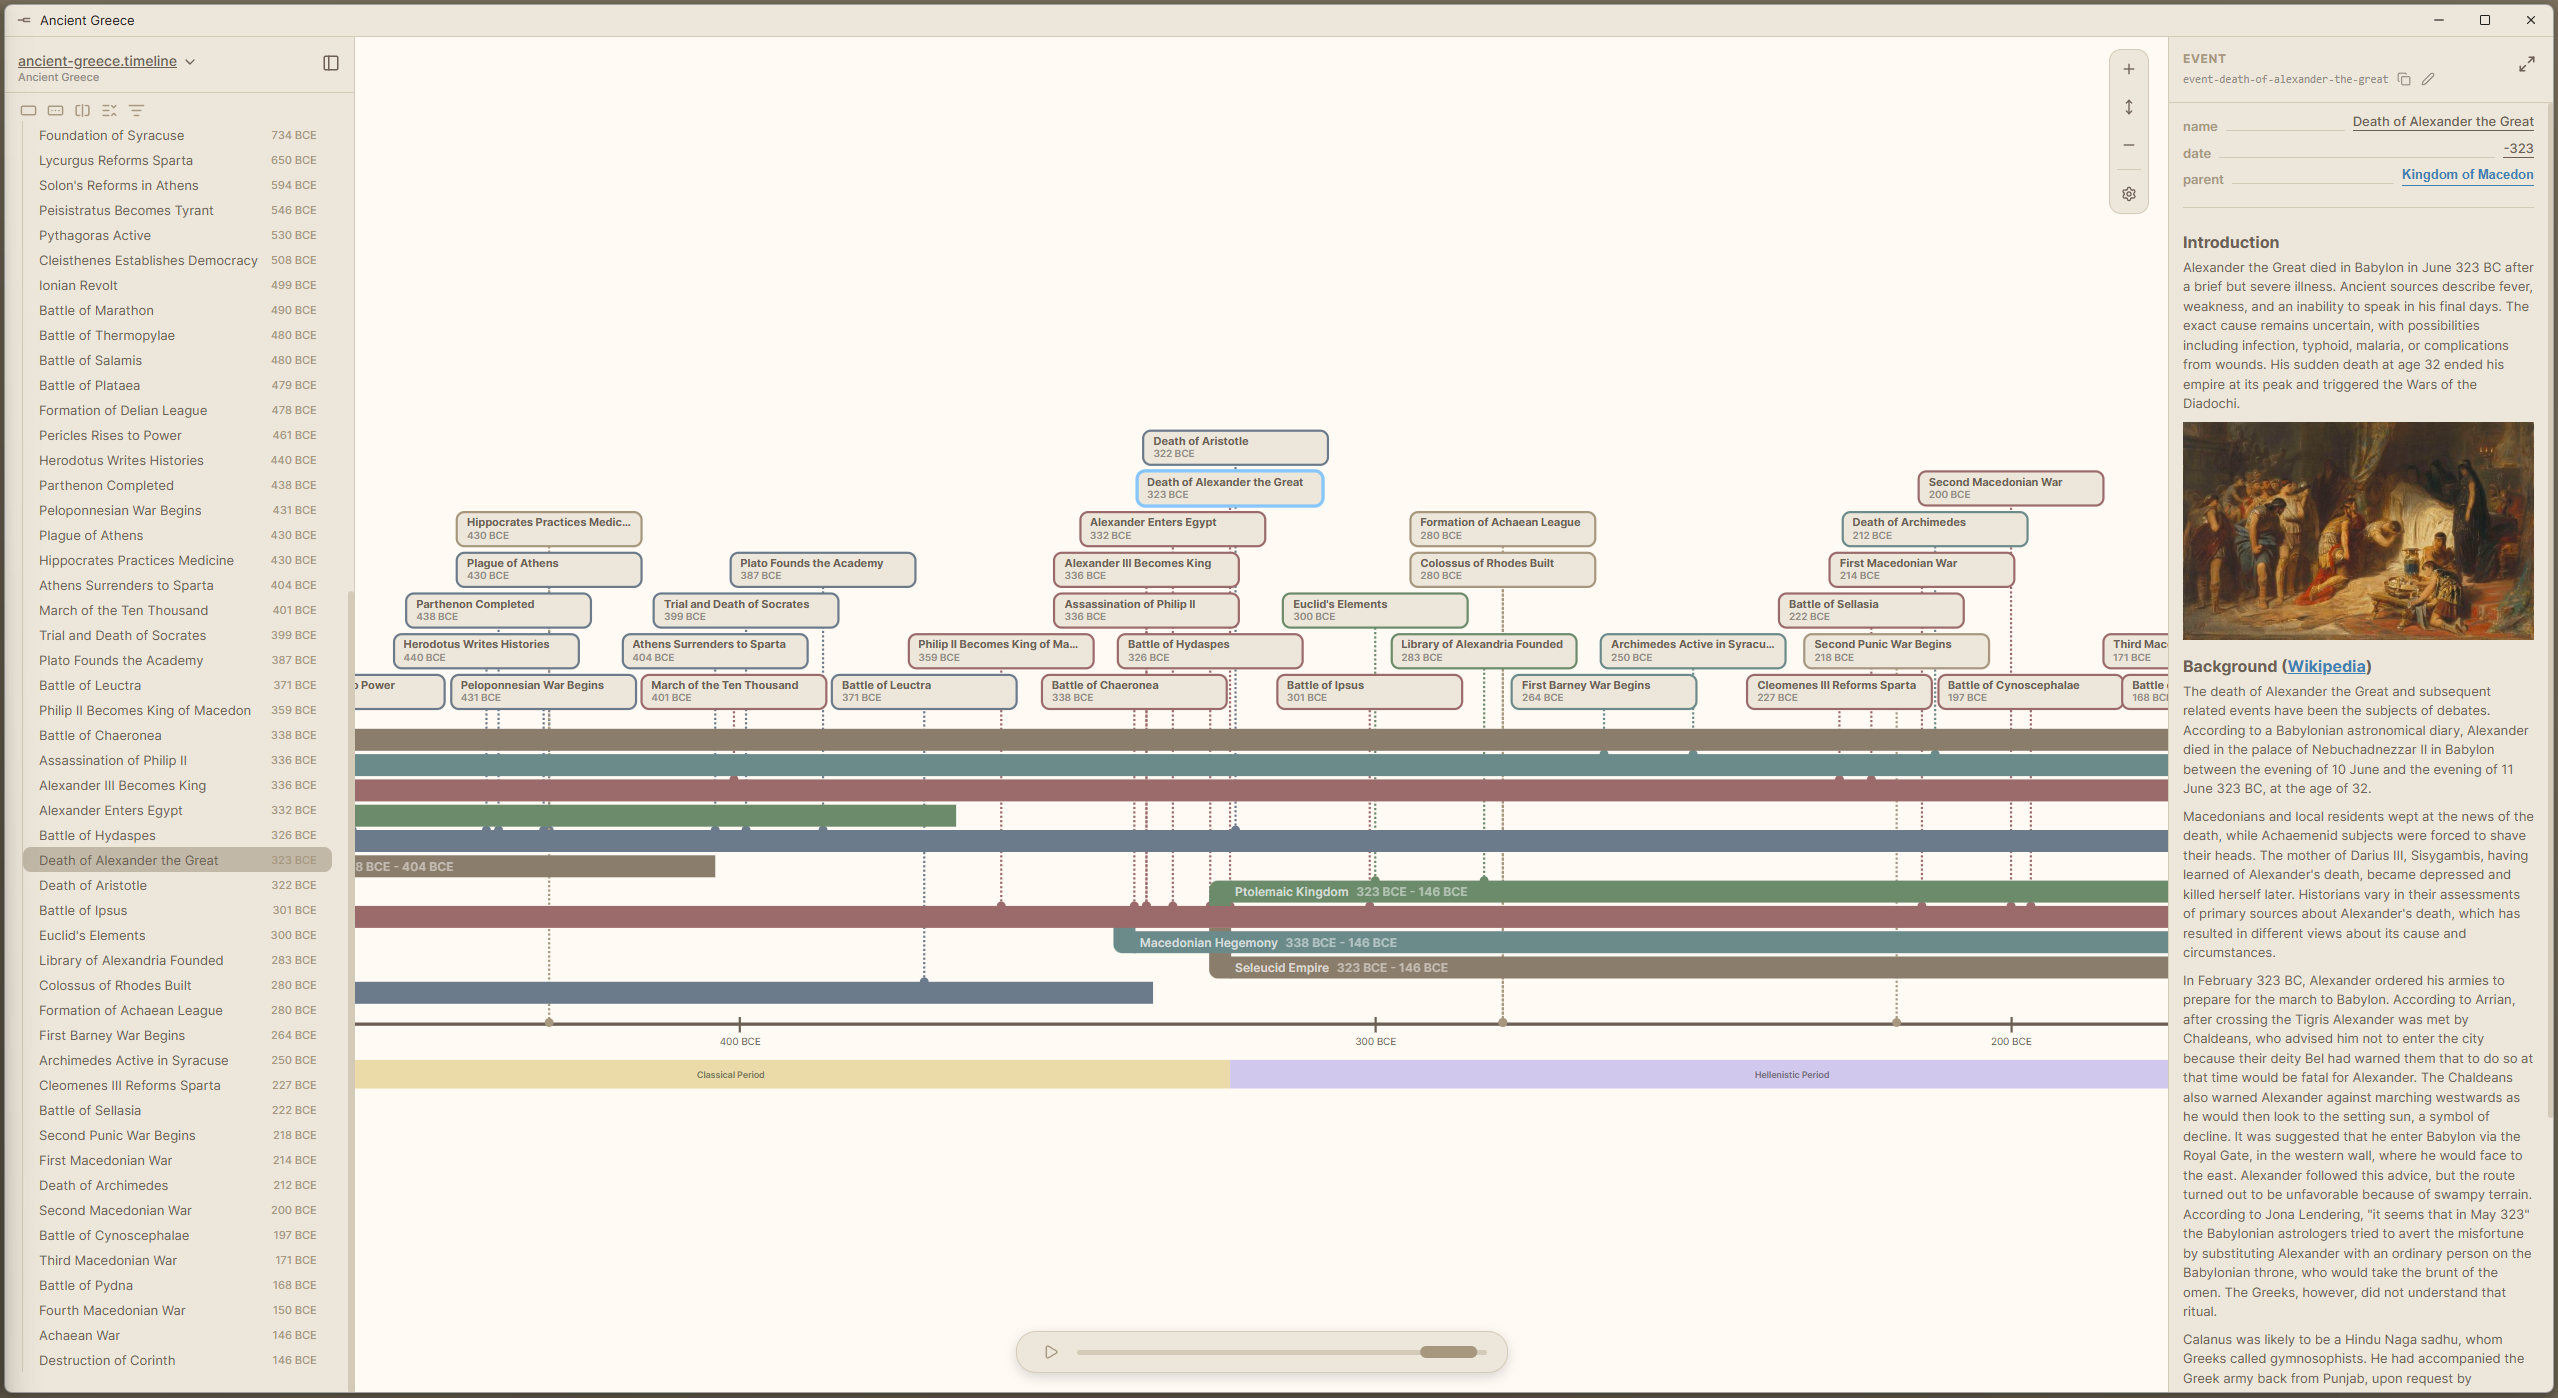
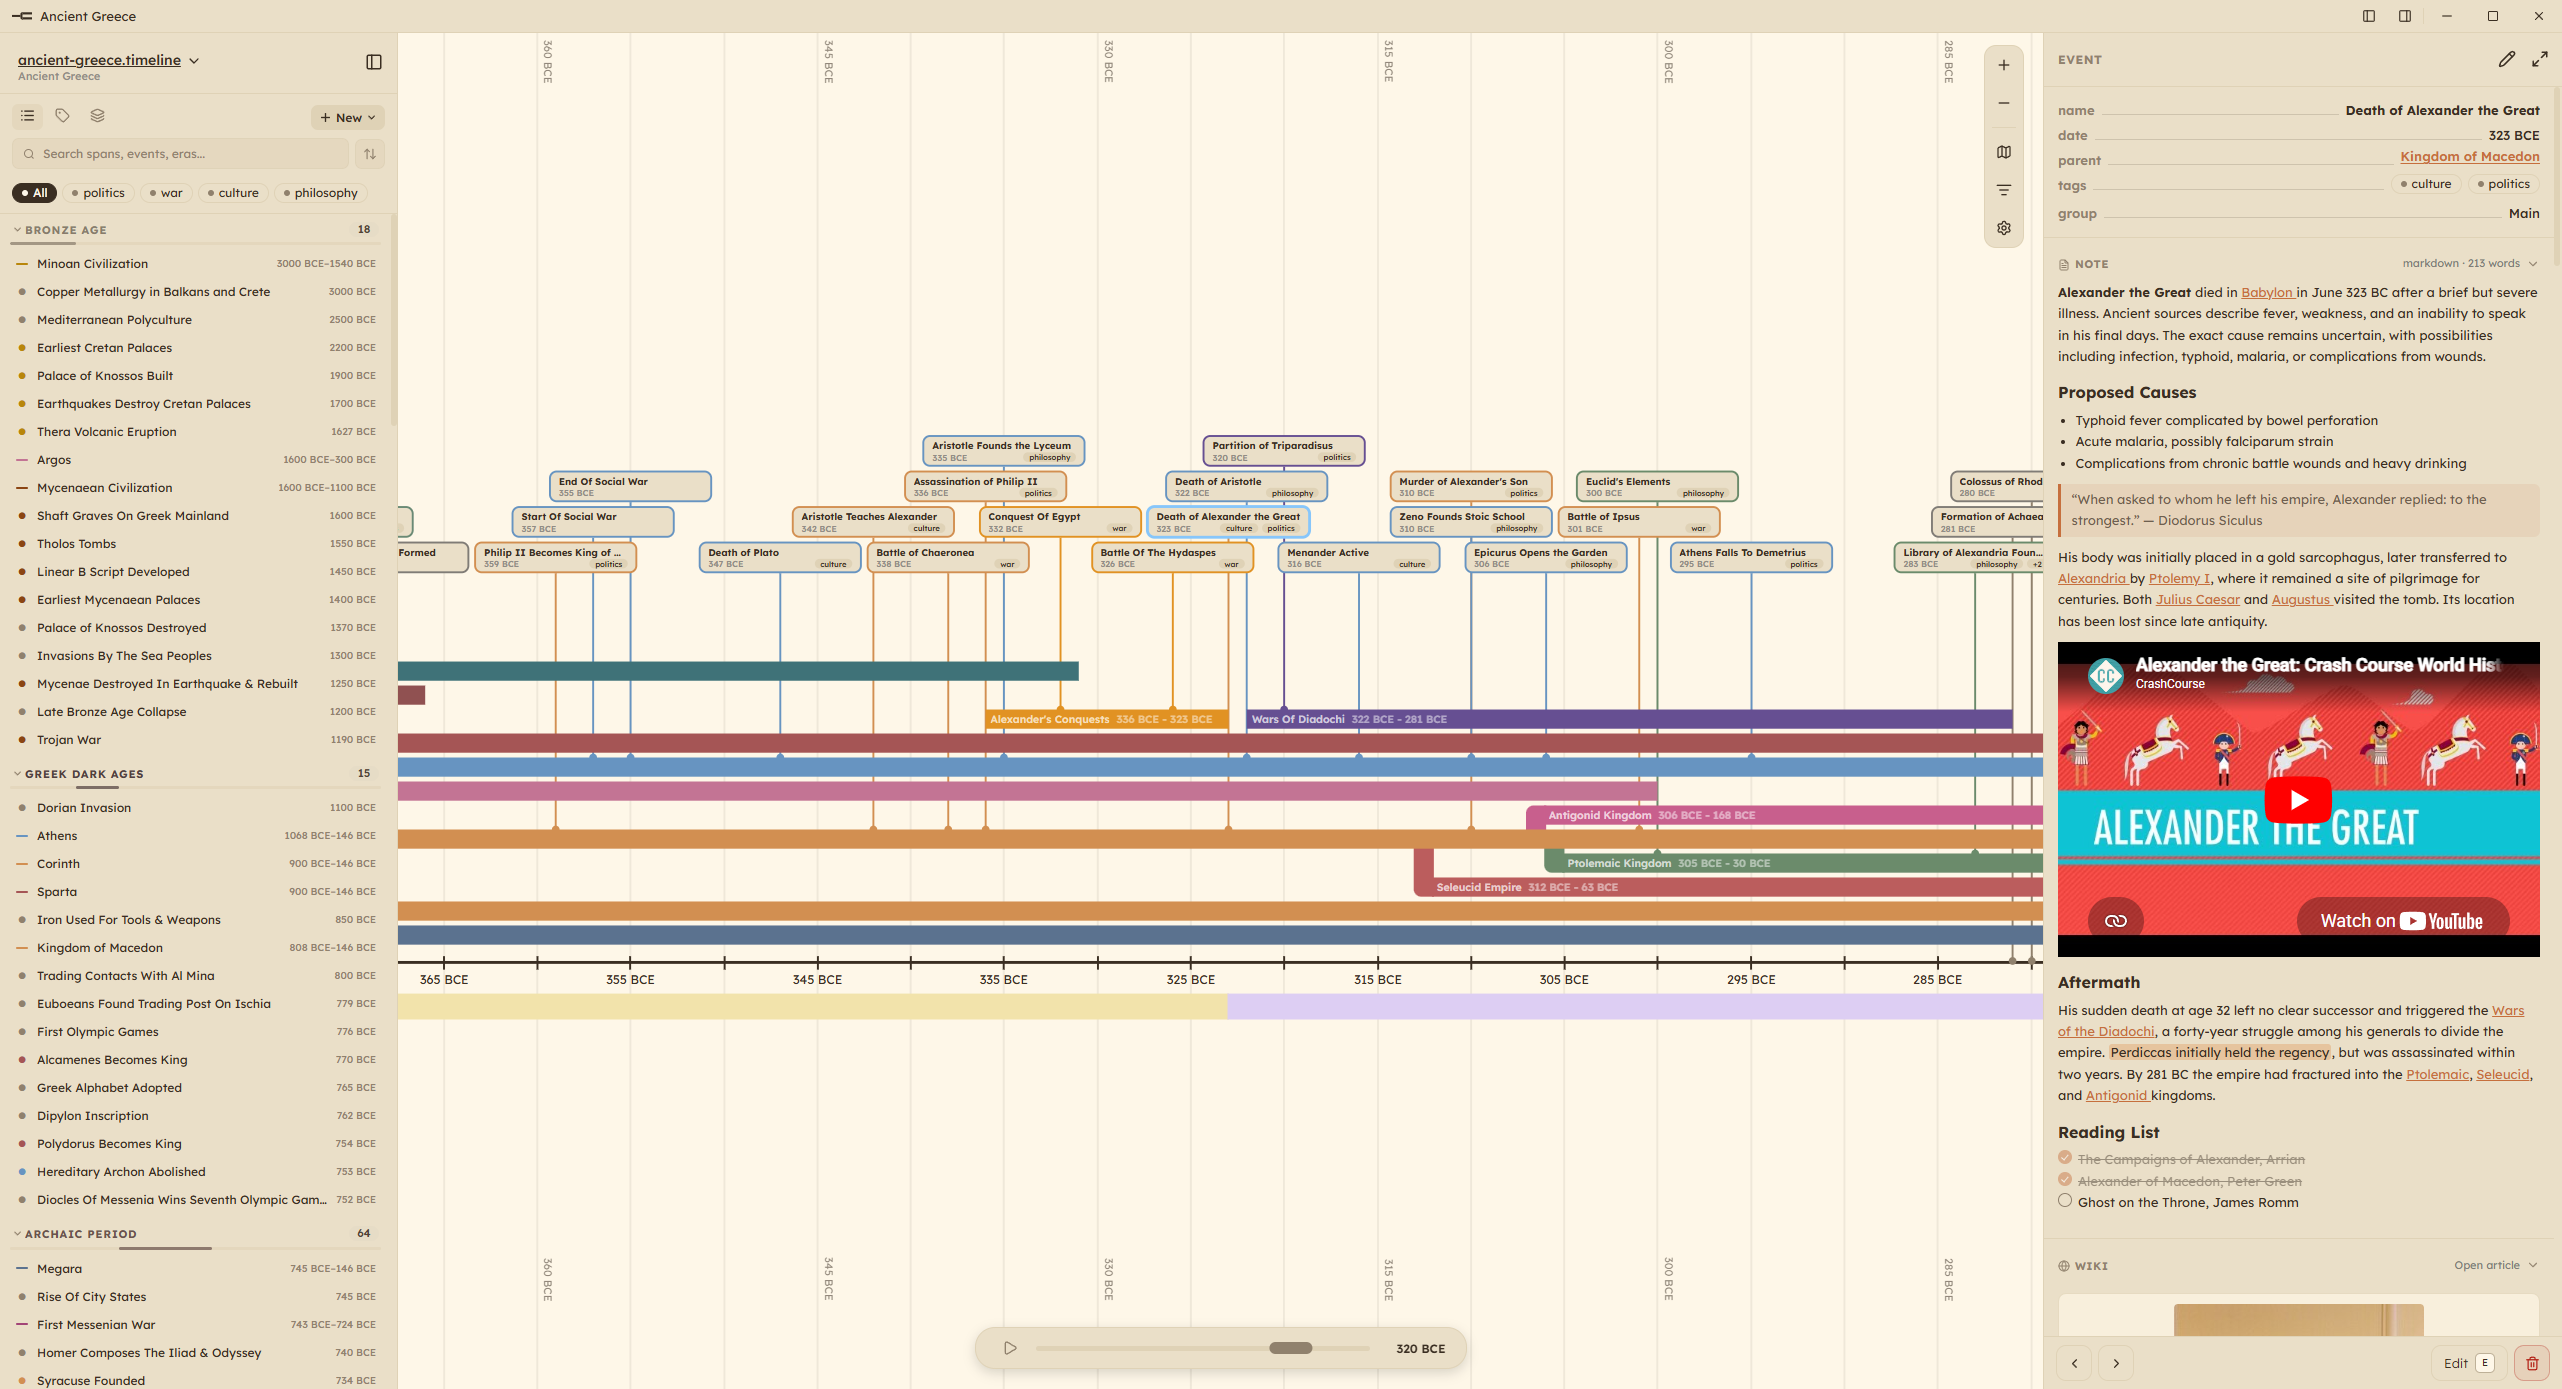
link wiki sections
+ update readme

diff --git a/src/components/WikiSection.jsx b/src/components/WikiSection.jsx
@@ -147,8 +147,26 @@ export default function WikiSection({ wikiUrl, useWiki, isEditMode, onUrlChange 
         const lastSegment = parsed.title.split("/").pop();
         if (lastSegment) titleCandidates.push(lastSegment);
       }
-      const tryApi = async (base, title) => {
-        const q = `?action=parse&page=${encodeURIComponent(title)}&prop=text&disabletoc=1&format=json&formatversion=2`;
+
+      const resolveSectionIndex = async (base, title, anchor) => {
+        const q = `?action=parse&page=${encodeURIComponent(title)}&prop=sections&format=json&formatversion=2`;
+        const result = await fetchWikipedia({ url: base + q });
+        if (!result?.success) return null;
+        const j = JSON.parse(result.html);
+        const sections = j?.parse?.sections;
+        if (!Array.isArray(sections)) return null;
+        const normalizedAnchor = anchor.replace(/_/g, " ");
+        const match = sections.find((s) =>
+          s.anchor === anchor ||
+          s.anchor.replace(/_/g, " ") === normalizedAnchor ||
+          s.line?.replace(/<[^>]*>/g, "") === normalizedAnchor
+        );
+        return match ? match.index : null;
+      };
+
+      const tryApi = async (base, title, sectionIndex) => {
+        let q = `?action=parse&page=${encodeURIComponent(title)}&prop=text&disabletoc=1&format=json&formatversion=2`;
+        if (sectionIndex != null) q += `&section=${sectionIndex}`;
         const result = await fetchWikipedia({ url: base + q });
         if (!result?.success) return null;
         const j = JSON.parse(result.html);
@@ -156,13 +174,29 @@ export default function WikiSection({ wikiUrl, useWiki, isEditMode, onUrlChange 
         if (text && typeof text === "object") text = text["*"] ?? null;
         return text ? { parse: { ...j.parse, text } } : null;
       };
+
       let data = null;
       outer: for (const title of titleCandidates) {
         for (const base of apiPaths) {
-          data = await tryApi(base, title);
+          let sectionIndex = null;
+          if (parsed.section) {
+            sectionIndex = await resolveSectionIndex(base, title, parsed.section);
+            if (sectionIndex == null) continue;
+          }
+          data = await tryApi(base, title, sectionIndex);
           if (data) break outer;
         }
       }
+
+      if (!data && parsed.section) {
+        outer2: for (const title of titleCandidates) {
+          for (const base of apiPaths) {
+            data = await tryApi(base, title, null);
+            if (data) break outer2;
+          }
+        }
+      }
+
       if (!data) {
         const pageResult = await fetchWikipedia({ url });
         if (pageResult?.success) {
@@ -178,7 +212,11 @@ export default function WikiSection({ wikiUrl, useWiki, isEditMode, onUrlChange 
               ...titleCandidates,
             ])];
             for (const title of discoveryTitles) {
-              data = await tryApi(apiBase, title);
+              let sectionIndex = null;
+              if (parsed.section) {
+                sectionIndex = await resolveSectionIndex(apiBase, title, parsed.section);
+              }
+              data = await tryApi(apiBase, title, sectionIndex);
               if (data) break;
             }
           }
@@ -283,7 +321,7 @@ export default function WikiSection({ wikiUrl, useWiki, isEditMode, onUrlChange 
     if (!wikiUrl) return null;
     const parsedForLink = parseMediaWikiUrl(wikiUrl);
     const safeHref = parsedForLink
-      ? `${parsedForLink.host}/wiki/${encodeURIComponent(parsedForLink.title)}`
+      ? `${parsedForLink.host}/wiki/${encodeURIComponent(parsedForLink.title)}${parsedForLink.section ? `#${encodeURIComponent(parsedForLink.section)}` : ""}`
       : null;
     return (
       <>
@@ -300,7 +338,7 @@ export default function WikiSection({ wikiUrl, useWiki, isEditMode, onUrlChange 
                 title="Open in browser"
                 onClick={(e) => e.stopPropagation()}
               >
-                Open article
+                {parsedForLink?.section ? `§ ${parsedForLink.section.replace(/_/g, " ")}` : "Open article"}
               </a>
             )}
             <ChevronDown size={14} style={{ transform: isWikiCollapsed ? "rotate(-90deg)" : "none", transition: "transform 0.15s ease", color: "var(--ui-muted)" }} />
@@ -327,7 +365,7 @@ export default function WikiSection({ wikiUrl, useWiki, isEditMode, onUrlChange 
           <div className="note-create-card-icon"><BookOpen size={18} /></div>
           <div className="note-create-card-text">
             <span className="note-create-card-title">Add wiki</span>
-            <span className="note-create-card-subtitle">Link a MediaWiki article</span>
+            <span className="note-create-card-subtitle">Link a MediaWiki article or section</span>
           </div>
         </button>
       )}
@@ -342,7 +380,7 @@ export default function WikiSection({ wikiUrl, useWiki, isEditMode, onUrlChange 
               value={wikiUrlInput}
               onChange={(e) => { setWikiUrlInput(e.target.value); setWikiUrlInputError(""); }}
               onKeyDown={handleWikiUrlKeyDown}
-              placeholder="https://en.wikipedia.org/wiki/…"
+              placeholder="https://en.wikipedia.org/wiki/… or …/wiki/Page#Section"
             />
             {wikiUrlInputError && <div className="wiki-url-error">{wikiUrlInputError}</div>}
           </div>
@@ -354,13 +392,14 @@ export default function WikiSection({ wikiUrl, useWiki, isEditMode, onUrlChange 
       )}
       {wikiUrl && parsedWiki && !isWikiUrlInputOpen && (() => {
         const articleTitle = parsedWiki.title.replace(/_/g, " ");
+        const sectionName = parsedWiki.section?.replace(/_/g, " ");
         let articleHost = "";
         try { articleHost = new URL(parsedWiki.host).hostname; } catch { /* invalid host */ }
         return (
           <div className="wiki-url-card">
             <div className="wiki-url-card-avatar">{articleTitle.charAt(0).toUpperCase()}</div>
             <div className="wiki-url-card-info">
-              <div className="wiki-url-card-title">{articleTitle}</div>
+              <div className="wiki-url-card-title">{articleTitle}{sectionName ? ` § ${sectionName}` : ""}</div>
               <div className="wiki-url-card-host">{articleHost}</div>
             </div>
             <div className="wiki-url-card-actions">

diff --git a/src/styles/06-right-panel.css b/src/styles/06-right-panel.css
@@ -1747,7 +1747,7 @@
 .note-render h1,
 .note-render h2,
 .note-render h3 {
-  margin: 0.5rem 0 0.25rem;
+  margin: 0.85rem 0 0.3rem;
   font-weight: 700;
 }
 
@@ -1764,18 +1764,18 @@
 }
 
 .note-render p {
-  margin: 0 0 0.5rem;
+  margin: 0 0 0.7rem;
 }
 
 .note-render hr {
   border: none;
   border-top: 1px solid var(--accent-color);
-  margin: 0.75rem 0;
+  margin: 1rem 0;
 }
 
 .note-render ul,
 .note-render ol {
-  margin: 0 0 0.5rem 1.25rem;
+  margin: 0 0 0.7rem 1.25rem;
   padding: 0;
 }
 
@@ -1784,6 +1784,19 @@
   background: var(--accent-color);
   padding: 0 4px;
   border-radius: 4px;
+}
+
+.note-render blockquote {
+  border-left: 3px solid var(--link-color);
+  margin: 0.7rem 0;
+  padding: 0.35rem 0.75rem;
+  background: color-mix(in srgb, var(--link-color), transparent 90%);
+  border-radius: 0 6px 6px 0;
+  color: var(--text-secondary, color-mix(in srgb, var(--text-primary), transparent 30%));
+}
+
+.note-render blockquote p:last-child {
+  margin-bottom: 0;
 }
 
 .note-render a {
@@ -1882,22 +1895,52 @@
   background: color-mix(in srgb, var(--accent-color), transparent 60%);
 }
 
-.note-render ul.contains-task-list {
+.note-render ul:has(> li > input[type="checkbox"]) {
   list-style: none;
-  padding-left: 0.25rem;
+  margin-left: 0;
+  padding-left: 0;
 }
 
-.note-render .contains-task-list li {
+.note-render li:has(> input[type="checkbox"]) {
   display: flex;
   align-items: baseline;
   gap: 6px;
 }
 
-.note-render .contains-task-list input[type="checkbox"] {
+.note-render li > input[type="checkbox"] {
+  -webkit-appearance: none;
+  appearance: none;
   margin: 0;
   flex-shrink: 0;
-  accent-color: var(--ui-muted);
+  width: 14px;
+  height: 14px;
+  border-radius: 50%;
+  border: 1.5px solid var(--ui-muted);
+  background: transparent;
   cursor: pointer;
+  position: relative;
+}
+
+.note-render li:has(> input[type="checkbox"]:checked) {
+  text-decoration: line-through;
+  opacity: 0.45;
+}
+
+.note-render li > input[type="checkbox"]:checked {
+  background: var(--link-color);
+  border-color: var(--link-color);
+}
+
+.note-render li > input[type="checkbox"]:checked::after {
+  content: "";
+  position: absolute;
+  top: 50%;
+  left: 50%;
+  width: 3px;
+  height: 5.5px;
+  border: solid white;
+  border-width: 0 1.5px 1.5px 0;
+  transform: translate(-50%, -60%) rotate(40deg);
 }
 
 .note-render img:-moz-broken,

diff --git a/src/utils/validation.js b/src/utils/validation.js
@@ -43,7 +43,8 @@ export const parseMediaWikiUrl = (url) => {
       title = decodeURIComponent(pathname.slice(1));
     }
     if (!title) return null;
-    return { host: parsed.origin, title };
+    const section = parsed.hash ? decodeURIComponent(parsed.hash.slice(1)) : null;
+    return { host: parsed.origin, title, section };
   } catch {
     return null;
   }

diff --git a/src/styles/10-wiki.css b/src/styles/10-wiki.css
@@ -6,7 +6,7 @@
 
 /* Wikipedia integration */
 .wiki-header-link {
-  color: inherit;
+  color: var(--text-subtle);
   text-decoration: none;
   font-weight: inherit;
   transition: color 0.15s ease, text-decoration-color 0.15s ease;
